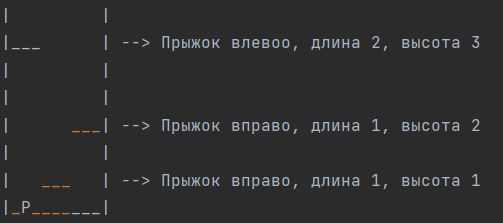
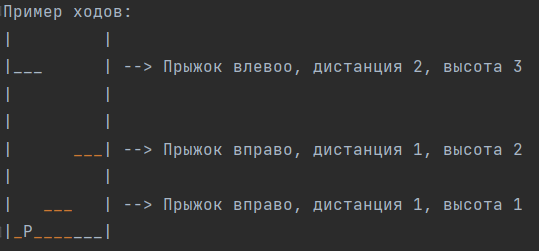
readme fixes and welcome image update

diff --git a/game.py b/game.py
@@ -68,7 +68,6 @@ def game_messages(game_message_id):
         game_message = f'Вы перепрыгнули на следующую полку'
     elif game_message_id == 4:
         game_message = f'Вы неправильно расчитали высоту и упали в кислоту'
-
     return game_message
 
 

diff --git a/readme.md b/readme.md
@@ -1,59 +1,84 @@
-=== Башня мемов ===
-Игра представляет собой башню, где персонажу нужно перерыгивать на полки, чтобы добравться до следующего этажа.
-На каждом этаже лежит мем в качестве приза.
-Жанр - текстовая аркада =) Каждый новый ход нужно представлять в воображении.
+# Башня мемов
+Жанр: Текстовый платформер
+Игра представляет собой башню, где персонажу нужно перерыгивать на полки, чтобы добраться до следующего этажа.
+На каждом этаже лежит мем в качестве приза. (Категорию мемов можно выбрать в meme.py/get_meme())
+Так как это текстовая игра, каждый новый ход нужно представлять в воображении, в этом основной "челендж"
 
-- Ширина башни - 3
-- Максимальная высота полки 3
+- Ширина башни - 3м
+- Максимальная высота полки 3м
 - Полки бывают - левая, средняя, правая
 - Начальная точка - левый нижний угол
 Игроку нужно расчитать прыжок и указать на сколько он прыгнет до следующей полки относительно той, где он находится.
 При каждом прыжке, предыдущий уровень заполняется кислотой, поэтому нет возможности упасть на предыдущую полку или 
-прыгнуть в стену, если промазал - погибаешь.
+прыгнуть в стену. Если промазал - погибаешь.
 
+![turn example image](static/welcome.png)
 
+Пример ходов: 
 |         |
-|___      | --> Прыжок влевоо, длина 2, высота 3
+|___      | --> Прыжок влевоо, дистанция 2, высота 3
 |         |
 |         |
-|      ___| --> Прыжок вправо, длина 1, высота 2
+|      ___| --> Прыжок вправо, дистанция 1, высота 2
 |         |
-|   ___   | --> Прыжок вправо, длина 1, высота 1
+|   ___   | --> Прыжок вправо, дистанция 1, высота 1
 |_P_______|
 
 
-Алгоритм:
-1. Рандомизируем горизонтальное положение полки (Лево, Центр, Право)
-   1.1. Пример: Следующая полка находится по центру башни/ по правой части башни
-2. Рандомизируем вертикальное положение (Довольно низко, Довольно высоко, Очень высоко)
-   2.1. Пример: Следующая полка ... и довольно низко/довольно высоко/Очень высоко 
-3. В проверке высоты прыжка все просто - 0=низко, 1=высоко, 2=очень высоко, поэтому 
-      рандомайзером присваиваем значение и потом проверяем, угадал ли пользователь
-   1. В проверке дистанции сложнее, нужно запоминать текущее положение игрока
-      4.1. КАК ЗАПОМНИТЬ ПОЛОЖЕНИЕ?
-      4.2. Лево=1, Центр=2, Право=3
-      4.3. От текущего положения отнимаем, если прыжок влево и прибавляем, если прыжок вправо, если прыжок на месте,
-            то положение не важно
-      4.4. Рандомим положение полки, отнимаем/прибавляем значение пользователя, если новое полоежние пользователя
-            равно положению полку, то проходит проверку
-      4.5. Если пользователь прыгнул в стену, то значение выходит за диапазон 1-3, значит нужно вывести сообщение 
-          "Вы прыгнули в стену и кислота догнала вас"
-4. Если игрок не угадал хоть одно число, то он падает в кислоту (показываем acid_fall.jpg)
-5. Если игрок угадал оба числа, увеличиваем его score на 100 и выдаем следующую полку
-6. Если игрок прыгнул на 3 полки, то попадает на этаж, где дополнительно получает Score + 200 и мем из get_meme()
-7. Общий счет отображается в углу
+[//]: # (## Алгоритм:)
 
-План:
+[//]: # (1. Рандомизируем горизонтальное положение полки &#40;Лево, Центр, Право&#41;)
+
+[//]: # (   1.1. Пример: Следующая полка находится по центру башни/ по правой части башни)
+
+[//]: # (2. Рандомизируем вертикальное положение &#40;Довольно низко, Довольно высоко, Очень высоко&#41;)
+
+[//]: # (   2.1. Пример: Следующая полка ... и довольно низко/довольно высоко/Очень высоко )
+
+[//]: # (3. В проверке высоты прыжка все просто - 0=низко, 1=высоко, 2=очень высоко, поэтому )
+
+[//]: # (      рандомайзером присваиваем значение и потом проверяем, угадал ли пользователь)
+
+[//]: # (   1. В проверке дистанции сложнее, нужно запоминать текущее положение игрока)
+
+[//]: # (      4.1. КАК ЗАПОМНИТЬ ПОЛОЖЕНИЕ?)
+
+[//]: # (      4.2. Лево=1, Центр=2, Право=3)
+
+[//]: # (      4.3. От текущего положения отнимаем, если прыжок влево и прибавляем, если прыжок вправо, если прыжок на месте,)
+
+[//]: # (            то положение не важно)
+
+[//]: # (      4.4. Рандомим положение полки, отнимаем/прибавляем значение пользователя, если новое полоежние пользователя)
+
+[//]: # (            равно положению полку, то проходит проверку)
+
+[//]: # (      4.5. Если пользователь прыгнул в стену, то значение выходит за диапазон 1-3, значит нужно вывести сообщение )
+
+[//]: # (          "Вы прыгнули в стену и кислота догнала вас")
+
+[//]: # (4. Если игрок не угадал хоть одно число, то он падает в кислоту &#40;показываем acid_fall.jpg&#41;)
+
+[//]: # (5. Если игрок угадал оба числа, увеличиваем его score на 100 и выдаем следующую полку)
+
+[//]: # (6. Если игрок прыгнул на 3 полки, то попадает на этаж, где дополнительно получает Score + 200 и мем из get_meme&#40;&#41;)
+
+[//]: # (7. Общий счет отображается в углу)
+
+## Roadmap:
 
 [//]: # (1. Сделать базовый вывод формы на страницу)
 [//]: # (2. Реализовать логику игры)
 [//]: # (3. Output meme)
-4. Подключить Bootstrap  https://youtu.be/0mCZdemSsbs
+[//]: # (4. Подключить Bootstrap  https://youtu.be/0mCZdemSsbs)
 
 [//]: # (5. FIX range selector to show value https://stackoverflow.com/questions/10004723/html5-input-type-range-show-range-value)
 [//]: # (                or: https://stackoverflow.com/questions/67550375/how-to-display-a-bootstrap-range-from-the-one-and-how-to-show-the-value-in-the-i)
-6. Push to Github
-7.Convert repetable elements from VIEWs to class or function
-9. Remove temp prints
+[//]: # (6. Push to Github)
+7. Initial clean code
+8. Create requirments.txt
+9. Convert repetable elements from VIEWs to class or function
+10. Remove temp prints
 
+## Links
 Meme API video: https://youtube.com/watch?v=5aYpkLfkgRE
